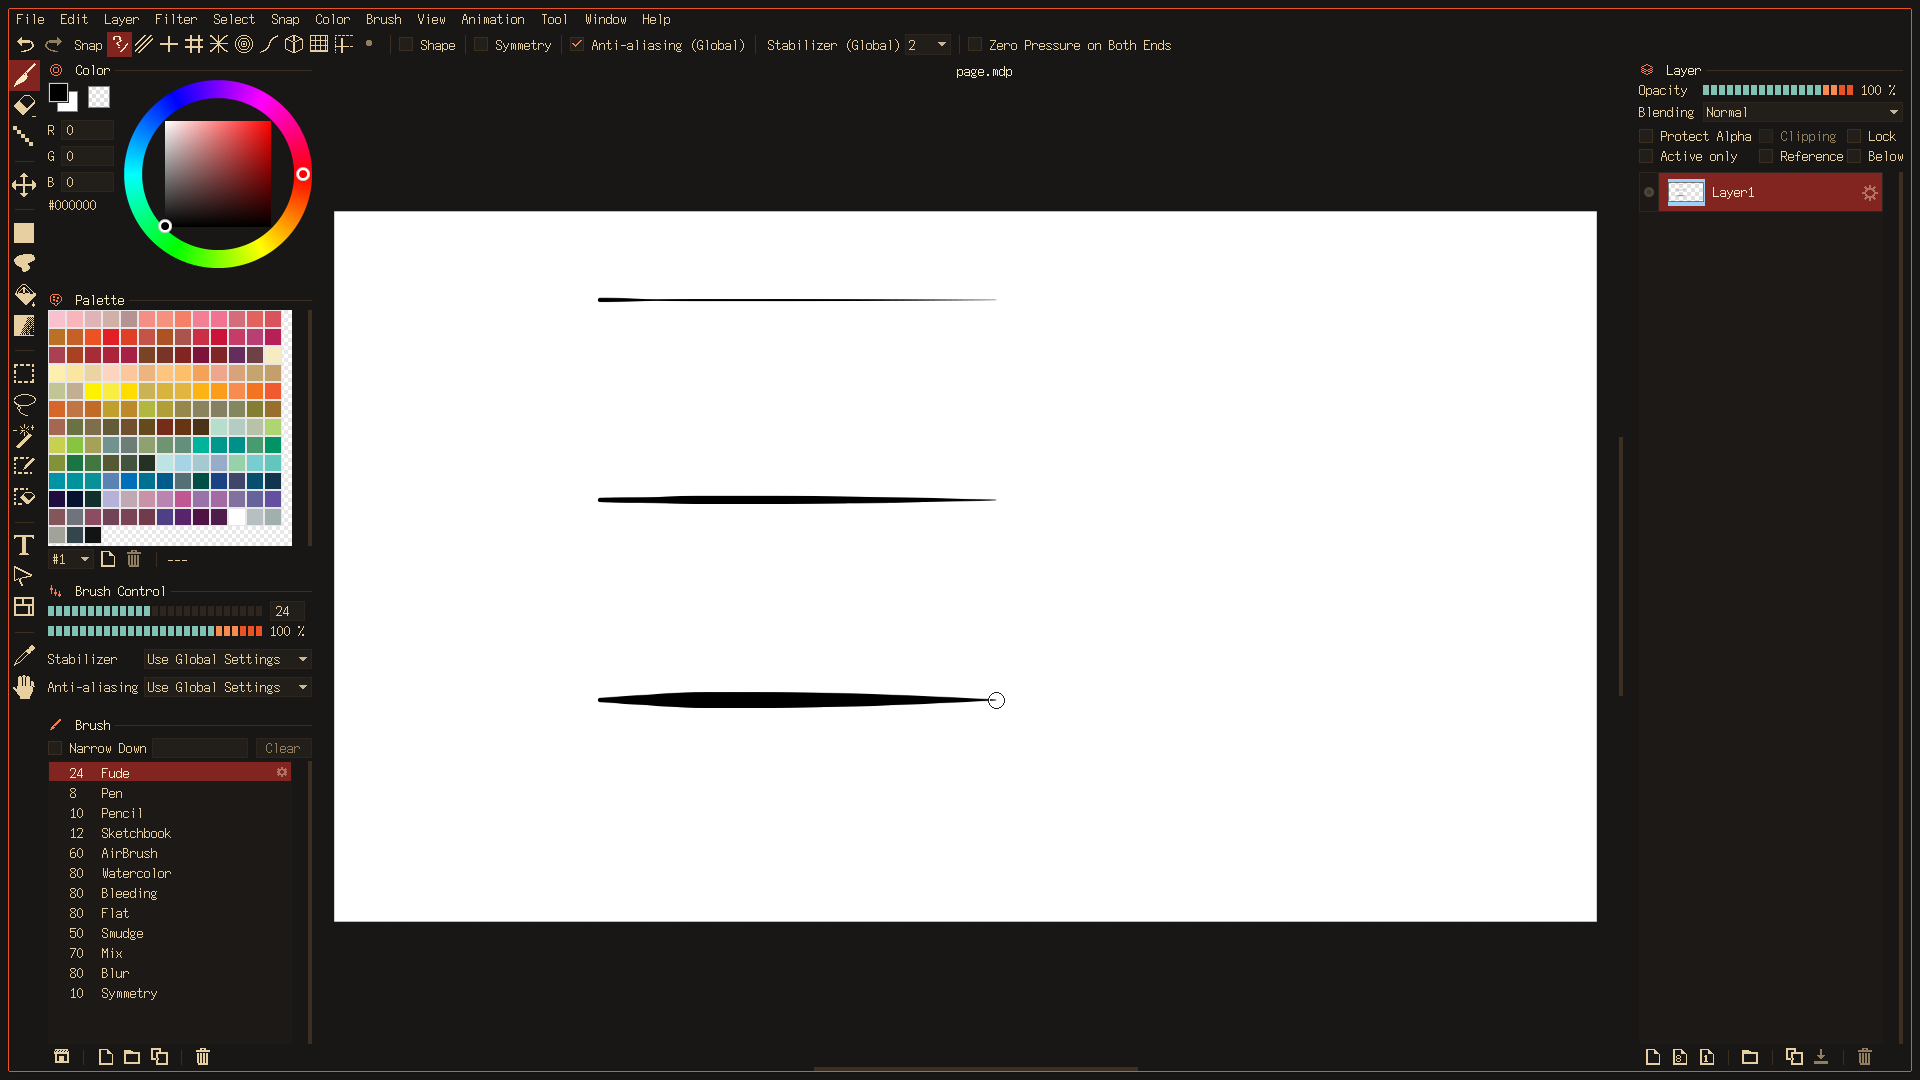
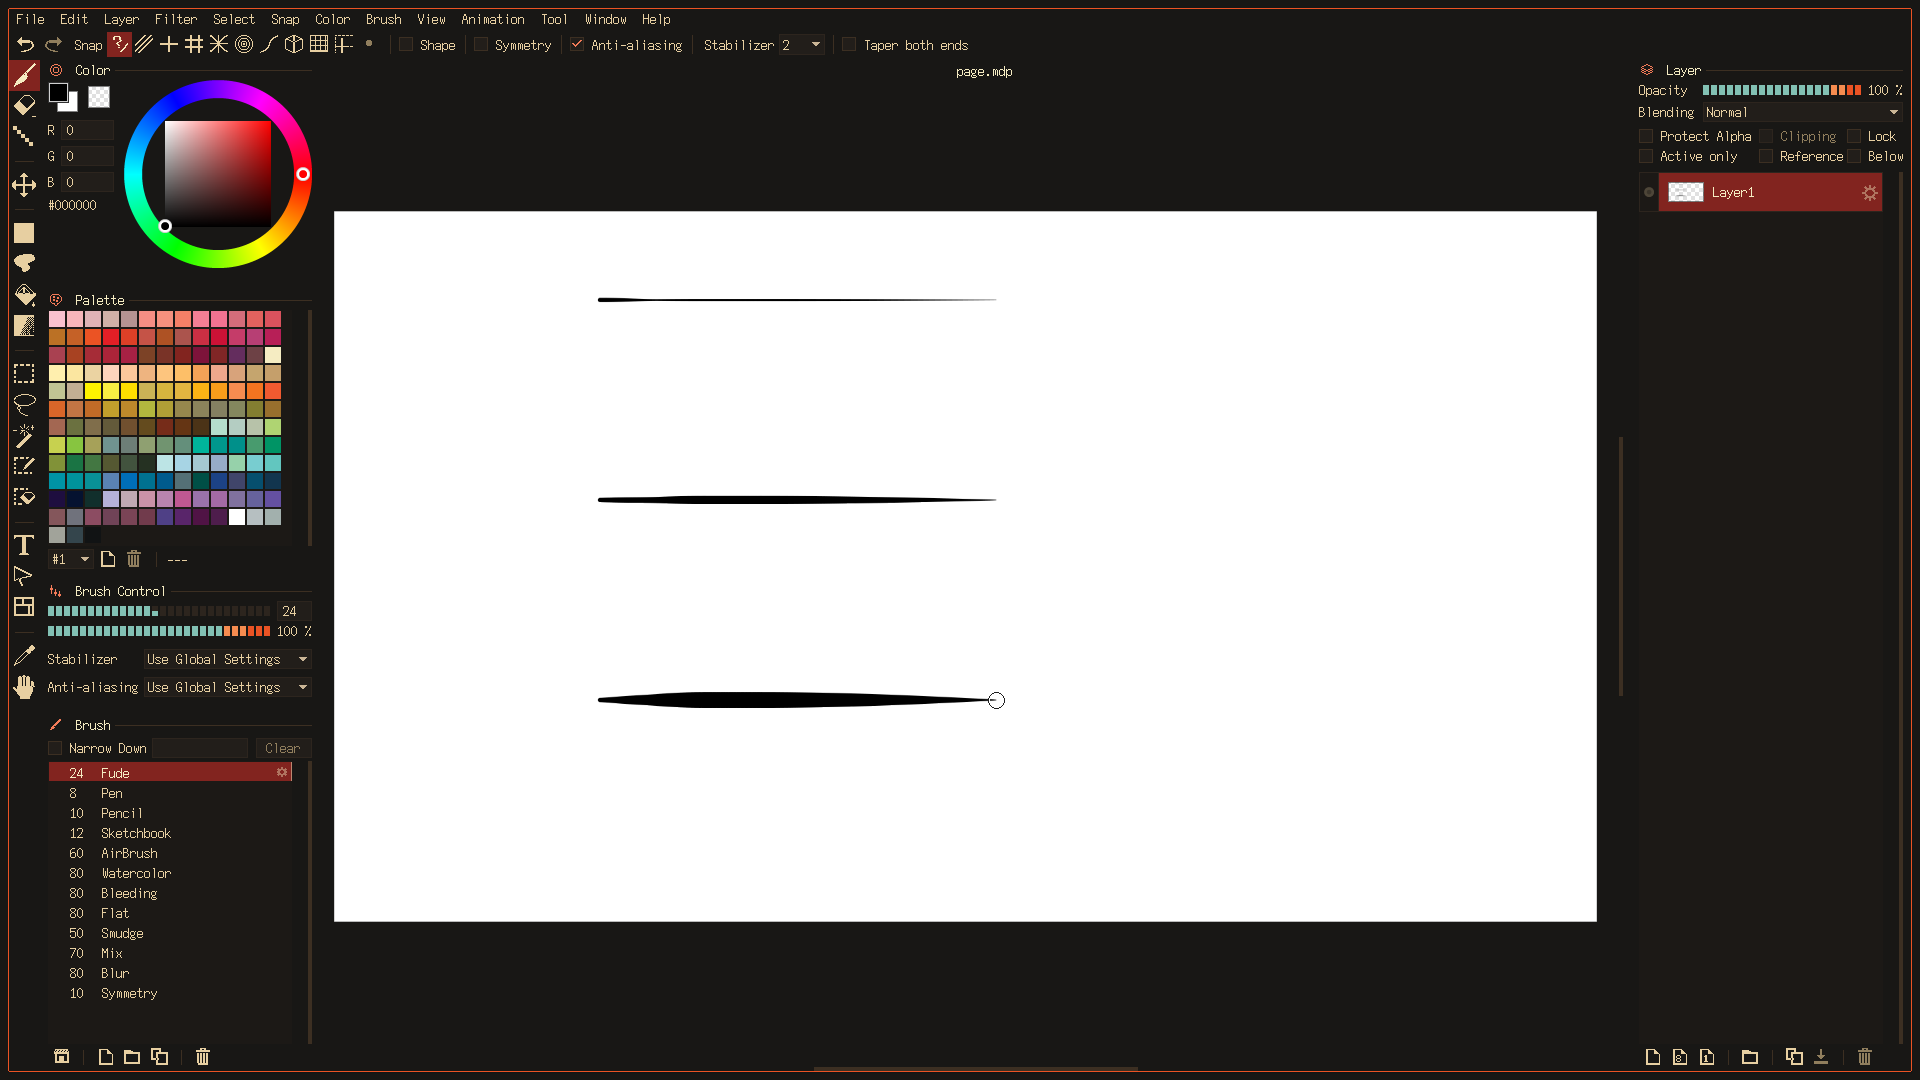
kawa-firealpaca: masks known by their pixels, three shorter words, safer dialogs; the lane's state before the reboot (T28)
An icon's mask is told from its pixels, so no table can fill up and leave black icons. Paths with
surrogates are whole; a close waits for an open dialog. The pen check needs no fenced bus. Not re-proven
yet: the machine has been failing since 19:51; .claude/notes/lane-firealpaca.md says what is left to run.

Changed region(s): [[0.0312, 0.275, 0.1562, 0.5194], [0.4375, 0.0306, 0.4688, 0.0611]]

diff --git a/src/kawa-firealpaca/kawa-firealpaca.c b/src/kawa-firealpaca/kawa-firealpaca.c
@@ -643,52 +643,13 @@ ours(const QString *path)
 	return path;
 }
 
-/* the icons that are ours, by QIcon::cacheKey: their pixmaps get their state's ink */
-static long mask_keys[1024];
-
-static void
-mask_add(long key)
-{
-	if (!key)
-		return;
-	for (unsigned n = 0; n < 1024; n++) {
-		unsigned i = ((unsigned long)key >> 32 ^ (unsigned long)key) * 2654435761u % 1024 + n;
-		if (!mask_keys[i % 1024] || mask_keys[i % 1024] == key) {
-			mask_keys[i % 1024] = key;
-			return;
-		}
-	}
-}
-
-static bool
-mask_has(long key)
-{
-	for (unsigned n = 0; n < 1024; n++) {
-		unsigned i = ((unsigned long)key >> 32 ^ (unsigned long)key) * 2654435761u % 1024 + n;
-		if (!mask_keys[i % 1024])
-			return false;
-		if (mask_keys[i % 1024] == key)
-			return true;
-	}
-	return false;
-}
-
 void
 _ZN5QIconC1ERK7QString(void *self, const QString *path)
 {
 	static void (*real)(void *, const QString *);
-	const QString *p;
-
 	if (!real)
 		real = dlsym(RTLD_NEXT, "_ZN5QIconC1ERK7QString");
-	if (!on) {
-		real(self, path);
-		return;
-	}
-	p = ours(path);
-	real(self, p);
-	if (p != path)
-		mask_add(qt.icon_key(self));
+	real(self, on ? ours(path) : path);
 }
 
 void
@@ -700,58 +661,72 @@ _ZN7QPixmapC1ERK7QStringPKc6QFlagsIN2Qt19ImageConversionFlagEE(void *self, const
 	real(self, on ? ours(path) : path, format, flags);
 }
 
-/* The state's ink on a mask, each once (key, size, ink), kept: a toolbar is painted often. */
+/* The state's ink on a mask, each once (icon, size, ink), kept: a toolbar is painted often. A mask is
+ * known by its pixels: black, or Qt's greyed form of black, in shape only. A picture in colours, its
+ * logo in a dialog, stays. Nothing goes wrong when the table is full, only slower. */
 static void
 inked(void *ret, const void *icon, int mode, int state)
 {
-	static struct { long key; uint32_t c; int w, h; unsigned char pm[OBJECT_BYTES]; bool used; } memo[1536];
+	static struct { long key; uint32_t c; int w, h; unsigned char pm[OBJECT_BYTES]; bool used, mask; } memo[1536];
 	long key = qt.icon_key(icon);
-	uint32_t c;
-	unsigned char img[OBJECT_BYTES], argb[OBJECT_BYTES];
-	int w, h;
+	uint32_t c = mode == MODE_DISABLED ? ink.faint : state == STATE_OFF && mode != MODE_SELECTED ? ink.text : ink.on_select;
+	int w = qt.pixmap_w(ret), h = qt.pixmap_h(ret);
+	unsigned char img[OBJECT_BYTES], argb[OBJECT_BYTES], pm[OBJECT_BYTES];
 	long stride;
 	uint32_t *px;
 	unsigned slot;
+	bool mask = true, free_slot = false;
 
-	if (!mask_has(key))
-		return;
-	c = mode == MODE_DISABLED ? ink.faint : state == STATE_OFF && mode != MODE_SELECTED ? ink.text : ink.on_select;
-	w = qt.pixmap_w(ret);
-	h = qt.pixmap_h(ret);
 	if (w <= 0 || h <= 0)
 		return;
 	slot = (unsigned)(((unsigned long)key * 31 + c) * 2654435761u + (unsigned)w * 131 + (unsigned)h) % 1536;
 	for (unsigned n = 0; n < 1536; n++, slot = (slot + 1) % 1536) {
-		if (memo[slot].used && memo[slot].key == key && memo[slot].c == c && memo[slot].w == w && memo[slot].h == h) {
-			qt.pixmap_assign(ret, memo[slot].pm);
+		if (!memo[slot].used) {
+			free_slot = true;
+			break;
+		}
+		if (memo[slot].key == key && memo[slot].c == c && memo[slot].w == w && memo[slot].h == h) {
+			if (memo[slot].mask)
+				qt.pixmap_assign(ret, memo[slot].pm);
 			return;
 		}
-		if (!memo[slot].used)
-			break;
 	}
 	qt.pixmap_image(img, ret);
 	qt.img_convert(argb, img, ARGB32, 0);
 	qt.img_free(img);
 	px = (uint32_t *)qt.img_bits(argb);
 	stride = qt.img_bpl(argb) / 4;
-	for (int y = 0; y < h; y++)
-		for (int x = 0; x < w; x++)
-			px[y * stride + x] = (px[y * stride + x] & 0xff000000u) | (c & 0xffffff);
-	if (!memo[slot].used) {
-		qt.pixmap_from(memo[slot].pm, argb, 0);
+	for (int y = 0; y < h && mask; y++)
+		for (int x = 0; x < w; x++) {
+			uint32_t p = px[y * stride + x];
+			int r = p >> 16 & 255, g = p >> 8 & 255, b = p & 255;
+			if ((p >> 24) && (abs(r - g) > 8 || abs(g - b) > 8)) {
+				mask = false;
+				break;
+			}
+		}
+	if (mask) {
+		for (int y = 0; y < h; y++)
+			for (int x = 0; x < w; x++)
+				px[y * stride + x] = (px[y * stride + x] & 0xff000000u) | (c & 0xffffff);
+		if (free_slot) {
+			qt.pixmap_from(memo[slot].pm, argb, 0);      /* (made in its place: kept for good) */
+			qt.pixmap_assign(ret, memo[slot].pm);
+		} else {
+			qt.pixmap_from(pm, argb, 0);
+			qt.pixmap_assign(ret, pm);
+			qt.pixmap_free(pm);
+		}
+	}
+	qt.img_free(argb);
+	if (free_slot) {
 		memo[slot].key = key;
 		memo[slot].c = c;
 		memo[slot].w = w;
 		memo[slot].h = h;
+		memo[slot].mask = mask;
 		memo[slot].used = true;
-		qt.pixmap_assign(ret, memo[slot].pm);
-	} else {                                     /* (the table full: not kept) */
-		unsigned char pm[OBJECT_BYTES];
-		qt.pixmap_from(pm, argb, 0);
-		qt.pixmap_assign(ret, pm);
-		qt.pixmap_free(pm);
 	}
-	qt.img_free(argb);
 }
 
 void
@@ -916,13 +891,19 @@ static bool in_dialog;           /* input to the program is dropped while its di
 static char *
 to_utf8(const QString *s)
 {
-	char *o = malloc((s->size > 0 ? (size_t)s->size : 0) * 3 + 1), *p = o;
+	char *o = malloc((s->size > 0 ? (size_t)s->size : 0) * 4 + 1), *p = o;
 
 	if (!o)
 		return NULL;
 	for (long i = 0; i < s->size; i++) {
 		unsigned c = s->ptr[i];
-		if (c < 0x80)
+		if (c >= 0xd800 && c < 0xdc00 && i + 1 < s->size && s->ptr[i + 1] >= 0xdc00 && s->ptr[i + 1] < 0xe000) {
+			c = 0x10000 + ((c - 0xd800) << 10) + (s->ptr[++i] - 0xdc00);
+			*p++ = (char)(0xf0 | c >> 18);
+			*p++ = (char)(0x80 | (c >> 12 & 63));
+			*p++ = (char)(0x80 | (c >> 6 & 63));
+			*p++ = (char)(0x80 | (c & 63));
+		} else if (c < 0x80)
 			*p++ = (char)c;
 		else if (c < 0x800) {
 			*p++ = (char)(0xc0 | c >> 6);
@@ -1110,11 +1091,14 @@ _ZN8QPainter8drawTextERK6QRectFiRK7QStringPS0_(void *self, const void *rect, int
 	real(self, rect, flags, text, bound);
 }
 
-/* ── words its hand-placed panels have no room for ────────────────────────────── */
+/* ── words its hand-placed panels have no room for, and two that say more than they need ────── */
 static const struct { const char *from, *to; } WORDS[] = {
 	{ "Show only Active Layer", "Active only" },
 	{ "Add Below", "Below" },
 	{ "FireAlpaca (64bit)", "FireAlpaca" },
+	{ "Anti-aliasing (Global)", "Anti-aliasing" },
+	{ "Stabilizer (Global)", "Stabilizer" },
+	{ "Zero Pressure on Both Ends", "Taper both ends" },
 };
 static QString word_to[sizeof WORDS / sizeof *WORDS];
 
@@ -1137,6 +1121,24 @@ _ZN15QAbstractButton7setTextERK7QString(void *self, const QString *text)
 	if (!real)
 		real = dlsym(RTLD_NEXT, "_ZN15QAbstractButton7setTextERK7QString");
 	real(self, on ? worded(text) : text);
+}
+
+void
+_ZN6QLabel7setTextERK7QString(void *self, const QString *text)
+{
+	static void (*real)(void *, const QString *);
+	if (!real)
+		real = dlsym(RTLD_NEXT, "_ZN6QLabel7setTextERK7QString");
+	real(self, on ? worded(text) : text);
+}
+
+void
+_ZN6QLabelC1ERK7QStringP7QWidget6QFlagsIN2Qt10WindowTypeEE(void *self, const QString *text, void *parent, int flags)
+{
+	static void (*real)(void *, const QString *, void *, int);
+	if (!real)
+		real = dlsym(RTLD_NEXT, "_ZN6QLabelC1ERK7QStringP7QWidget6QFlagsIN2Qt10WindowTypeEE");
+	real(self, on ? worded(text) : text, parent, flags);
 }
 
 /* (the bar shows a window's title: it has no use for "(64bit)") */
@@ -1407,6 +1409,7 @@ _ZN12QApplication6notifyEP7QObjectP6QEvent(void *self, void *receiver, void *eve
 		case 6: case 7:                              /* the keys */
 		case 31:                                     /* the wheel */
 		case 87: case 92: case 93:                   /* the pen */
+		case 19:                                     /* a close (Super+Q): the dialog goes first */
 			return true;
 		}
 	done = real(self, receiver, event);

diff --git a/.claude/notes/lane-firealpaca.md b/.claude/notes/lane-firealpaca.md
@@ -6,6 +6,22 @@ The owner wants the whole round finished today; he is at the PC until 23:30. Fin
 i want it skipped
 
 <!-- status -->
+## State at 20:15, 4 Nov: NOT DONE yet (the forced reboot of about 20:25, main's word)
+
+Everything is committed and pushed; nothing of this lane is running. **The code is complete; what is left is re-checking it.** The machine has been failing since about 19:51 (main: PID 1 and the user manager stuck, swap nearly full), so results after that are not to be trusted, and the last changes have not had a clean run:
+
+- The last commit's changes: masks known by their pixels (no table of icon keys), the toolbar's three shorter words, `QLabel`'s words, UTF-16 surrogates in paths, a close dropped while a dialog is out, the pen check without a fenced bus. Seen working in the kit at about 20:00: both moods, light → dark live, repeated dialogs, the process alive. Not yet re-run on them: `tools/regress/sketch-pen.sh`: its last two tries hit its time limit while the machine failed (last clean result, 19:43, the code before them: 2, 8, 16 px).
+- `tests/installer/test_upstream.sh`: 266 passed, 0 failed (19:55, in a sick machine but a clean result). `tests/installer/test_theme.sh` **has never finished here**: it waited for the shared lock until stopped for the reboot.
+
+**Next, after the reboot, in this order, each with nice -n 10:**
+1. `cd ~/repos/fk-firealpaca`; `git status` is clean; `git fetch origin main`, merge it if it moved; `python3 tools/build-themes.py` if the palette moved.
+2. A throw-away home for the pen check (it reads `$HOME`): `~/.cache/lane-firealpaca/scripts/skinhome.sh` makes most of it; `app` is `~/.local/share/fedokawaii/firealpaca/app`, the library `make -C src/kawa-firealpaca O=DIR`, `.local/src/dwl` a link to the real tree. Then `HOME=that bash tools/regress/sketch-pen.sh`. If it runs out of time on a healthy machine, its message now says why: find that, do not raise the limit.
+3. `tests/content/test_sketch.sh`, `tests/installer/test_theme.sh`, `test_theme_parts.sh`, `test_manifest.sh`, `tests/static/test_syntax.sh`, `test_generated.sh`, `test_contrast.sh`, `tests/look/test_launcher.sh`, `tests/yazi/test_yazi.sh`, `tests/menus/test_help.sh`. test_theme's new case is unproven: it may need work.
+4. Both moods once more in the kit (the plays: `~/.cache/lane-firealpaca/scripts/k17.sh`, `k25.sh`; their paths still say /dev/shm/fa-lane: `kit-seed.sh` wants the app, the built library and `tools/vptr`, `vkbd`, rebuilt from `~/.cache/lane-firealpaca/tools`).
+5. Then this file ends with DONE. `rm -rf ~/.cache/lane-firealpaca` first: it is this lane's scratch.
+
+A finding worth keeping: FireAlpaca's start stalled 41 s in the kit from about 19:45 (plain too, `KAWA_FA_PLAIN=1`): Qt's first connect to the kit's **fenced** session bus through the bundle's old libdbus. The real session's bus: 0.001 s with the same library, so the owner never sees it. Plays and the pen check take the bus away (`DBUS_SESSION_BUS_ADDRESS=unix:path=/nonexistent`: past that point in 0.4 s).
+
 # lane-firealpaca — T28: Sketch is FireAlpaca, themed to the limit
 
 Branch `lane-firealpaca`. Every test below was run on this PC, in a fenced headless dwl (`tools/hl-dwl.sh`, `tools/kit.sh`): nothing on the owner's screen. Proof shots beside this file: `lane-firealpaca/sketch-dark.png`, `sketch-light.png`, `pen-pressure.png`.
@@ -59,10 +75,10 @@ Costs, honestly: two to three times the RAM, closed source, X11 only.
 - **The mood live**: `current` renamed as kawa-theme does, while it runs: sheet, inks, masks and lists follow, no restart (dark ↔ light, shots).
 - **Alignment, measured** (`first/last non-ground x` per row, identical in both moods): content x 48 – 311 in the left panels, 1639 – 1902 in the right; heading icons +2; rule to the content's edge; meters 6 + 2 px on the grid.
 - **Real launcher path** in the kit with `--bin bin`: new sketch named by date; Ctrl+S; Ctrl+O and Ctrl+Shift+S through kawa-pick (yazi); Cancel removes the stand-in; a second file through the launcher opens as a tab in the one running (no second process).
-- **No network**: starts, opens the page, no hang.
+- **No network**: starts, opens the page, no hang (run before the start page was skipped: it showed "No internet" and Enter closed it).
 - **The pen's side buttons**: on the private dwl: upper + tip: colour picked (#FFFFFF from the page); lower + drag: the page moved.
 - **Keys**: Tab, F2, F7, Ctrl+K, Ctrl+N, Ctrl+O, Ctrl+Alt drag (size 24 → 46), Space drag (the page moved), from the running program.
-- Test files: `tests/content/test_sketch.sh` 110/110, `tests/look/test_launcher.sh` 268/268, `tests/menus/test_help.sh` 142/142, `tests/yazi/test_yazi.sh` 140/140, `tests/static/test_generated.sh`, `test_syntax.sh`, `test_deps.sh`, `test_design_doc.sh`, `test_noellipsis.sh`, `tools/check-packages`: green. See below for the installer's tests.
+- Test files, before the merge of main and the last changes (to be run again, above): `tests/content/test_sketch.sh` 110/110, `tests/look/test_launcher.sh` 268/268, `tests/menus/test_help.sh` 142/142, `tests/yazi/test_yazi.sh` 140/140, `tests/static/test_generated.sh`, `test_syntax.sh`, `test_deps.sh`, `test_design_doc.sh`, `test_noellipsis.sh`, `tools/check-packages`: green. `tests/installer/test_upstream.sh` 266/266.
 
 ## What main (lane-integrate) must do
 
